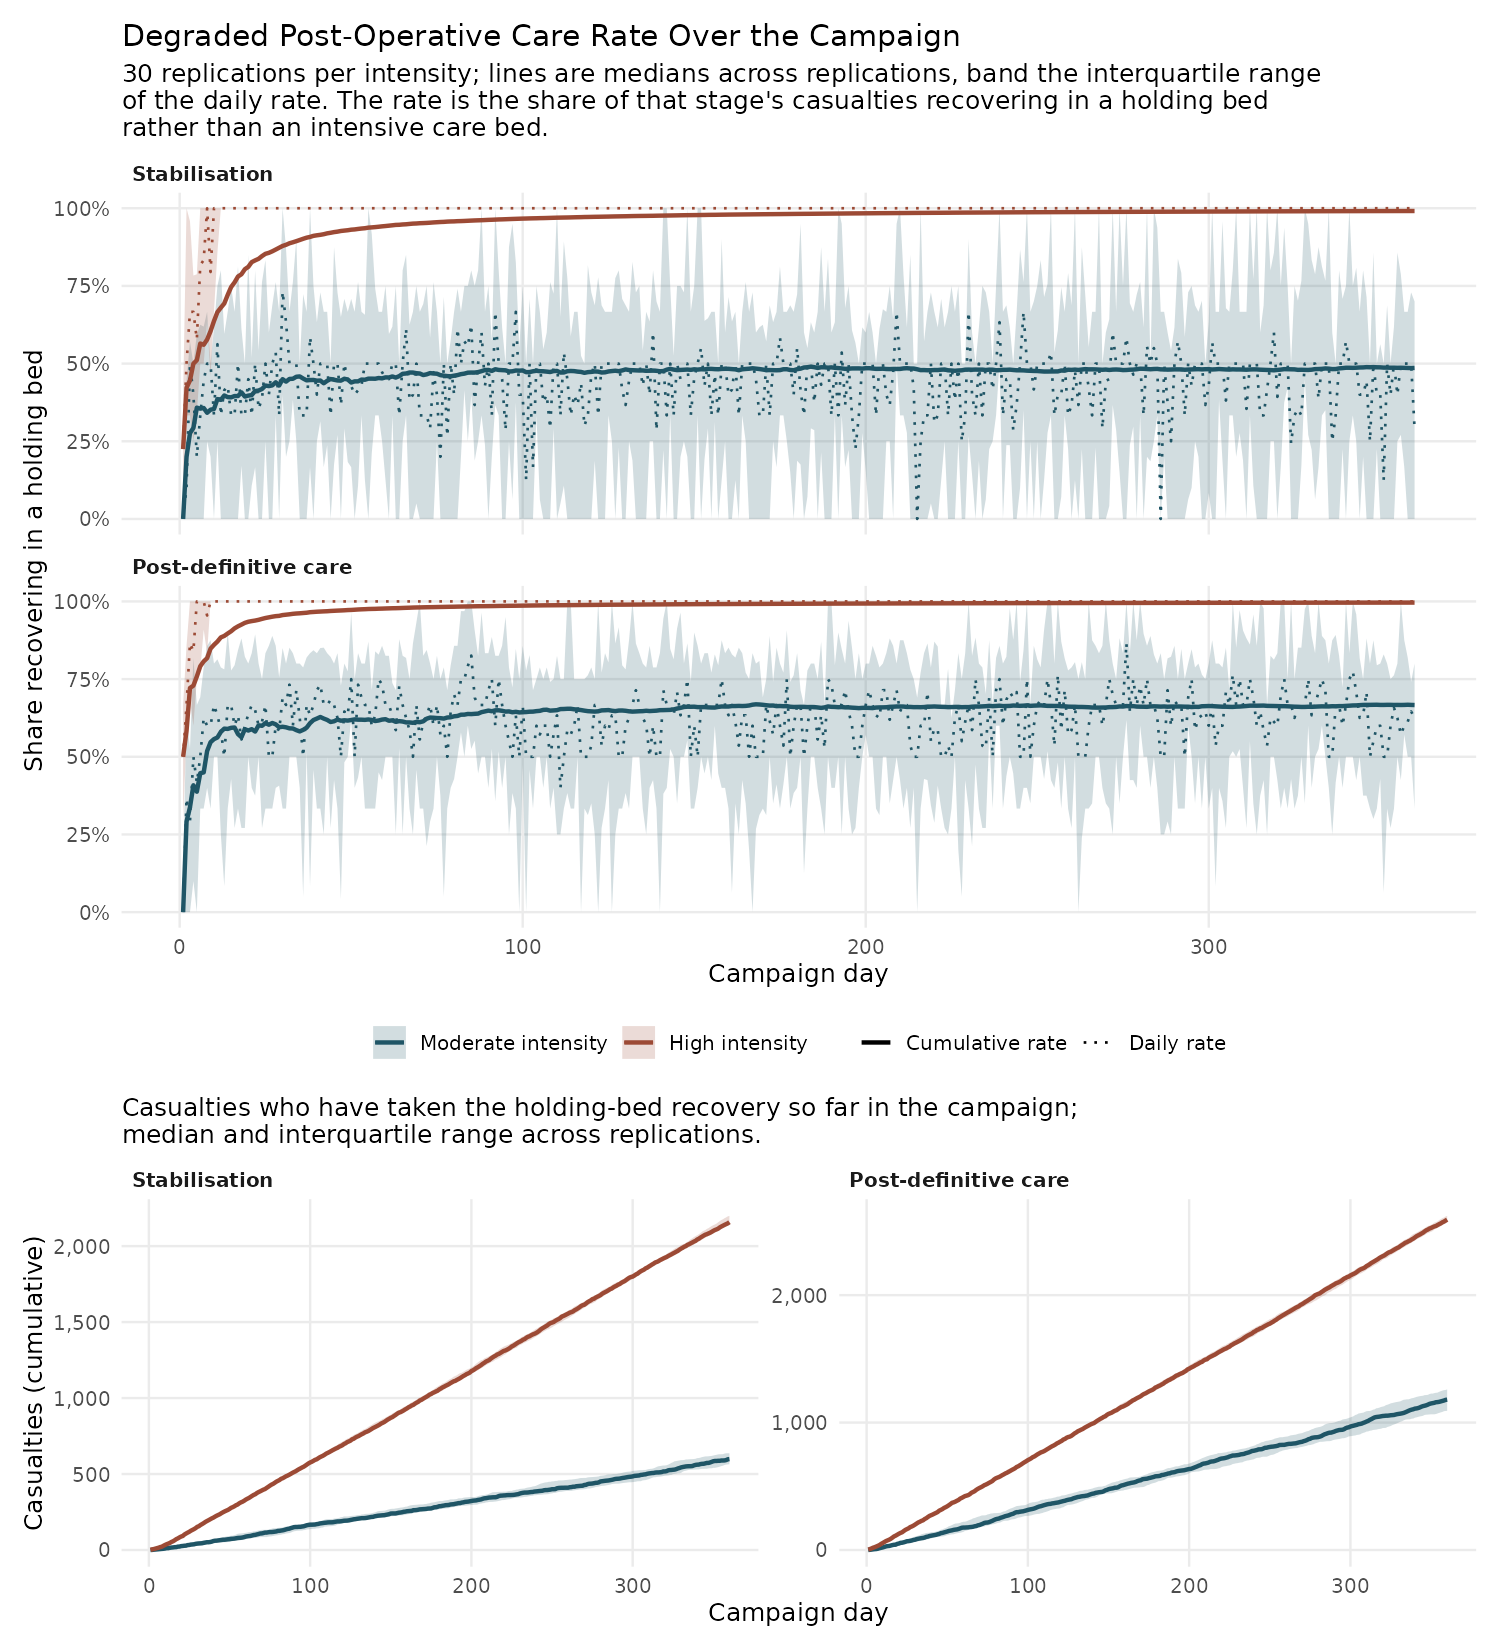
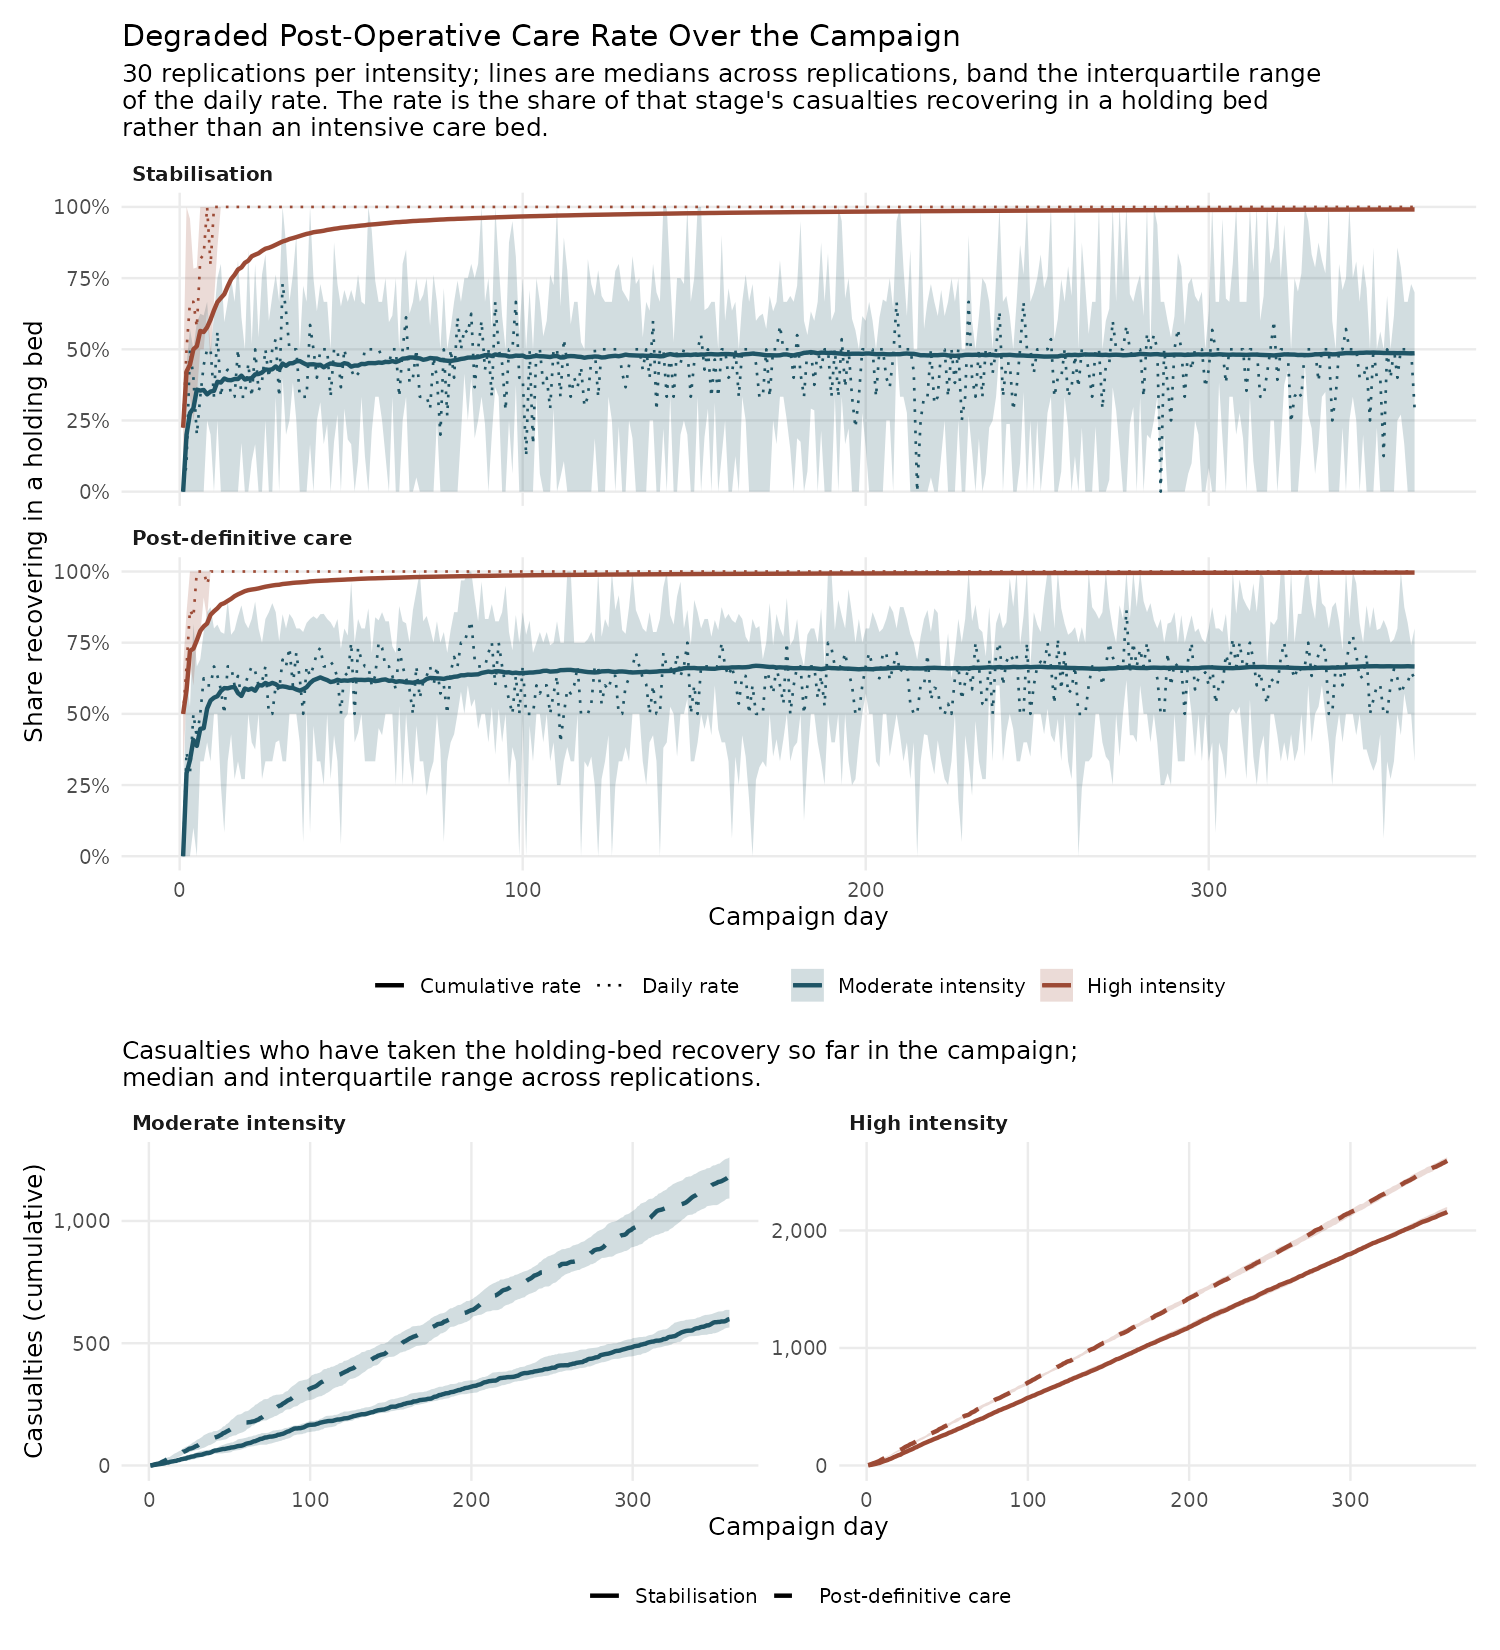
feat(figures): group degraded-care counts by intensity
One count panel per intensity, each on its own scale, with both stages
in it, so the stages are compared where their counts share a magnitude.

Claude-Session: https://claude.ai/code/session_01KGdABKeVrtdAbWY3WBcp2E

diff --git a/docs/Results.md b/docs/Results.md
@@ -139,7 +139,7 @@ The table reports, for each pool and intensity, the median across replications o
 
 ![Two stacked panels of the share of casualties recovering in a holding bed against campaign day](../images/degraded_care_rate_over_time.png)
 
-The share of casualties taking the holding-bed recovery against campaign day, stabilisation above and post-definitive care below, as a daily rate inside an interquartile band and as a running cumulative rate. The lower panels give the cumulative number of casualties who took it, both intensities on one scale per stage.
+The share of casualties taking the holding-bed recovery against campaign day, stabilisation above and post-definitive care below, as a daily rate inside an interquartile band and as a running cumulative rate. The lower panels give the cumulative number of casualties who took it, one panel per intensity on its own scale with both stages together.
 
 The degraded post-operative care rate is the share of casualties who took the holding-bed recovery in place of an intensive care bed at the point the decision was taken. At high intensity the median daily rate for post-definitive care first reached 100% on day <!-- GEN cell:degraded_care|High intensity: Post-definitive care|First day the median daily rate reaches 100%|full -->5<!-- /GEN --> and for stabilisation on day <!-- GEN cell:degraded_care|High intensity: Stabilisation|First day the median daily rate reaches 100%|full -->8<!-- /GEN -->; over the whole campaign <!-- GEN cell:degraded_care|High intensity: Post-definitive care|Whole campaign|full -->99.6%<!-- /GEN --> of post-definitive care and <!-- GEN cell:degraded_care|High intensity: Stabilisation|Whole campaign|full -->99.1%<!-- /GEN --> of stabilisation took the holding bed. At moderate intensity the whole-campaign rates were <!-- GEN cell:degraded_care|Moderate intensity: Post-definitive care|Whole campaign|full -->66.7%<!-- /GEN --> and <!-- GEN cell:degraded_care|Moderate intensity: Stabilisation|Whole campaign|full -->48.6%<!-- /GEN -->, and the median daily rate did not reach 100%.
 
